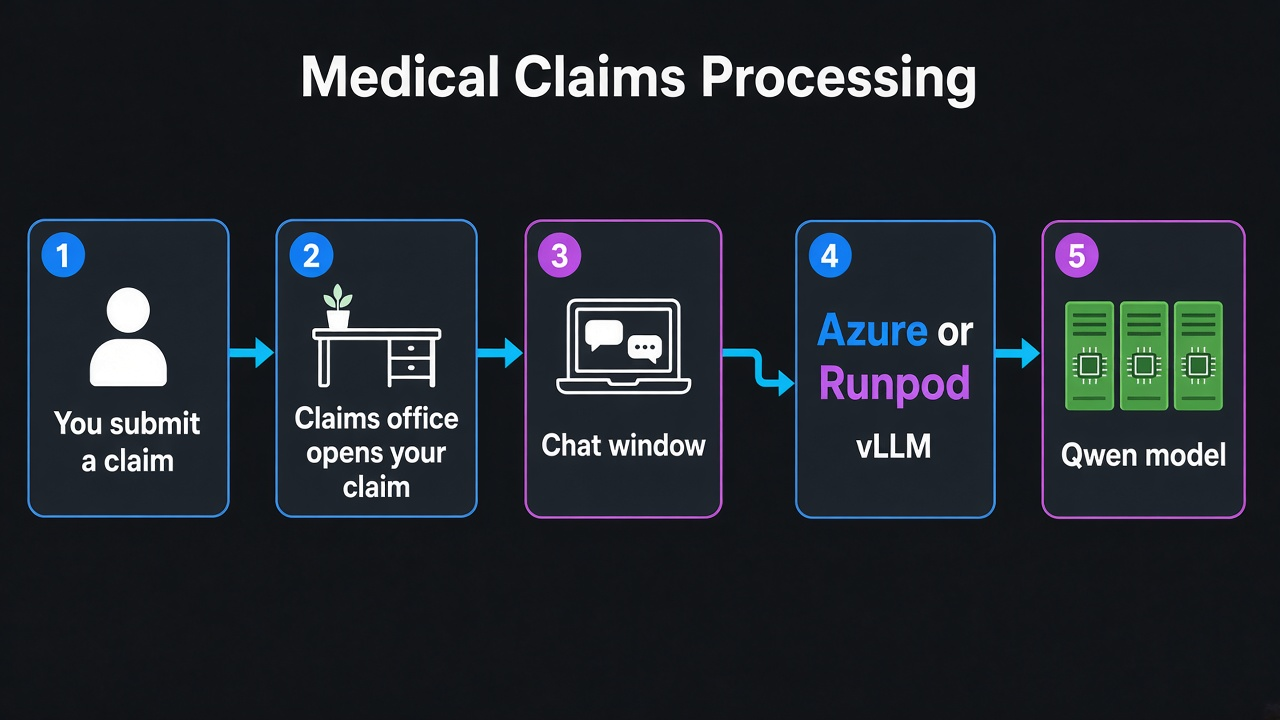
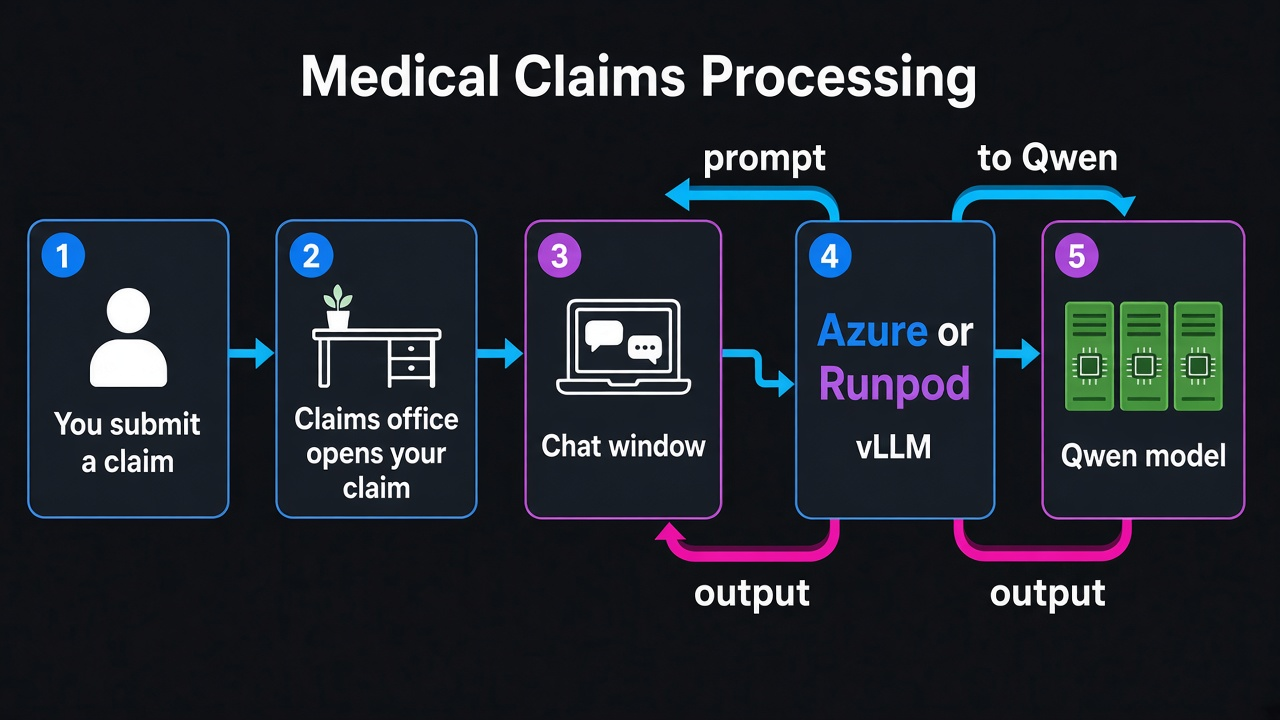
State the repo purpose up front and show prompt-to-Qwen-to-output.
The claims diagram now labels prompt, vLLM, Qwen, and the answer back to chat.

diff --git a/README.md b/README.md
@@ -15,6 +15,8 @@
 [![GitHub issues](https://img.shields.io/github/issues/javakishore-veleti/LLM-Inference-Serving-Azure-RUNPOD)](https://github.com/javakishore-veleti/LLM-Inference-Serving-Azure-RUNPOD/issues)
 [![GitHub stars](https://img.shields.io/github/stars/javakishore-veleti/LLM-Inference-Serving-Azure-RUNPOD)](https://github.com/javakishore-veleti/LLM-Inference-Serving-Azure-RUNPOD/stargazers)
 
+This repo shows software engineers deploying an LLM on their company’s Kubernetes cluster, and how **vLLM** helps that cluster handle about **1 million requests per hour** — using **Medical Claims Processing** as the business story for managing the model.
+
 Firstly, picture a business application: **Medical Claims Processing**. Assume **you** submitted a claim. Then people in the **claims office** start working on your claim. For that they open a **chat window** in their office chat app. Behind the chat, ordinary backend code (Java, .NET, Node) takes the message, mixes in **business rules** (coverage limits, medical codes, extra checks) and a **prompt**, and asks the company model “what should we do with this claim?” Claim data never has to leave the company.
 
 ![Medical claims flow: customer, office chat, Azure or Runpod, Qwen](docs/images/medical-claims-flow.png)
